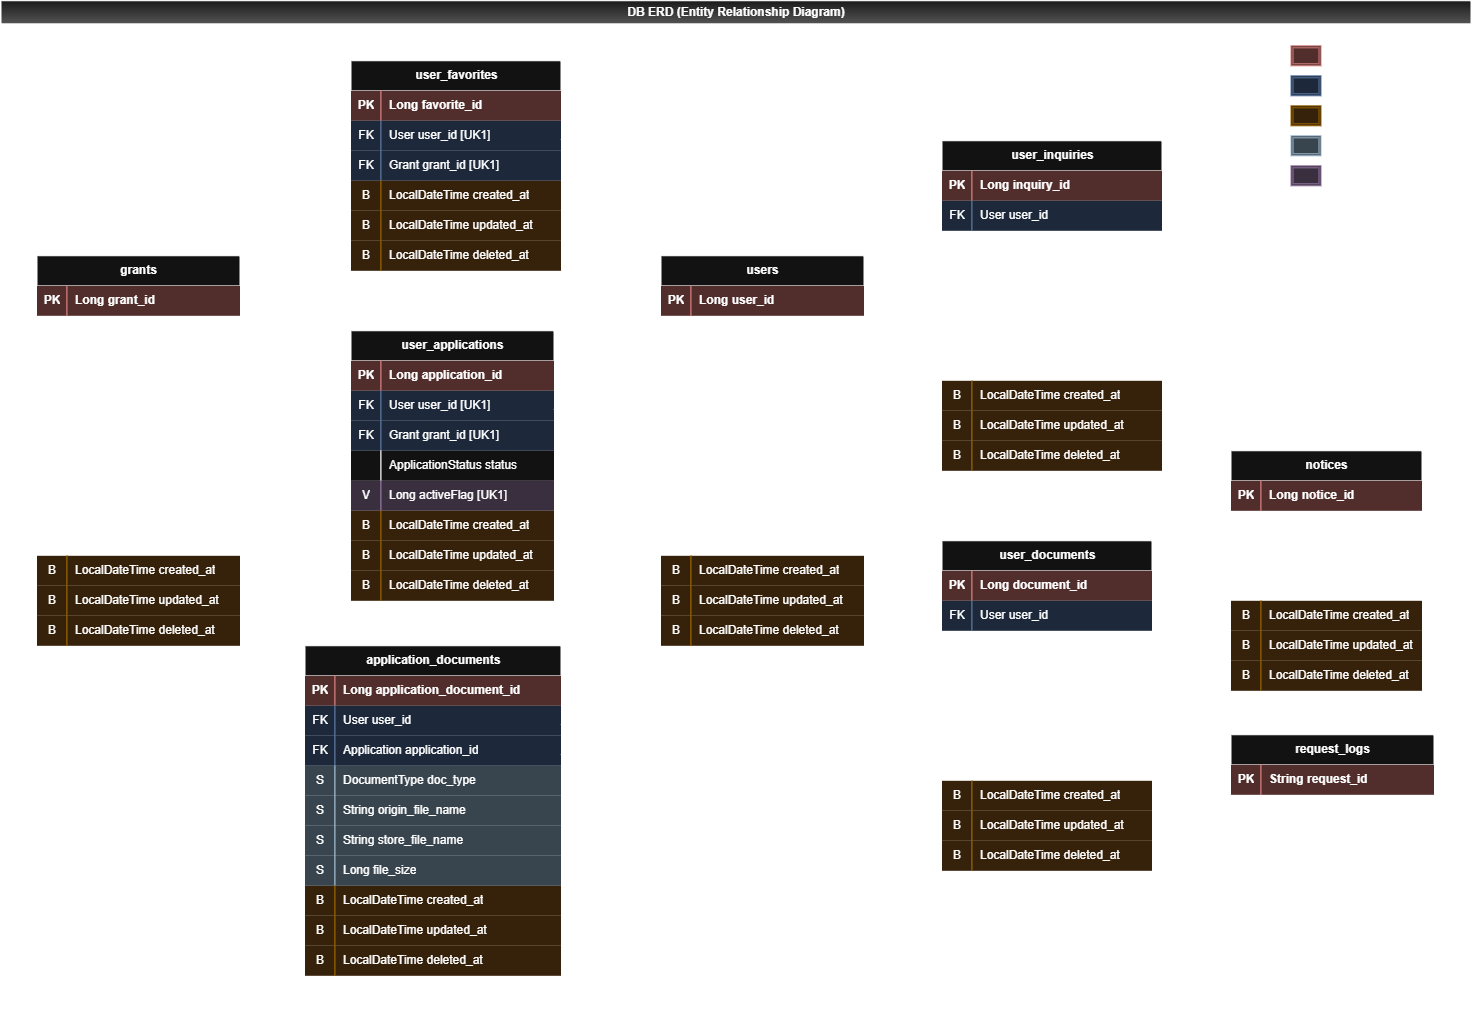
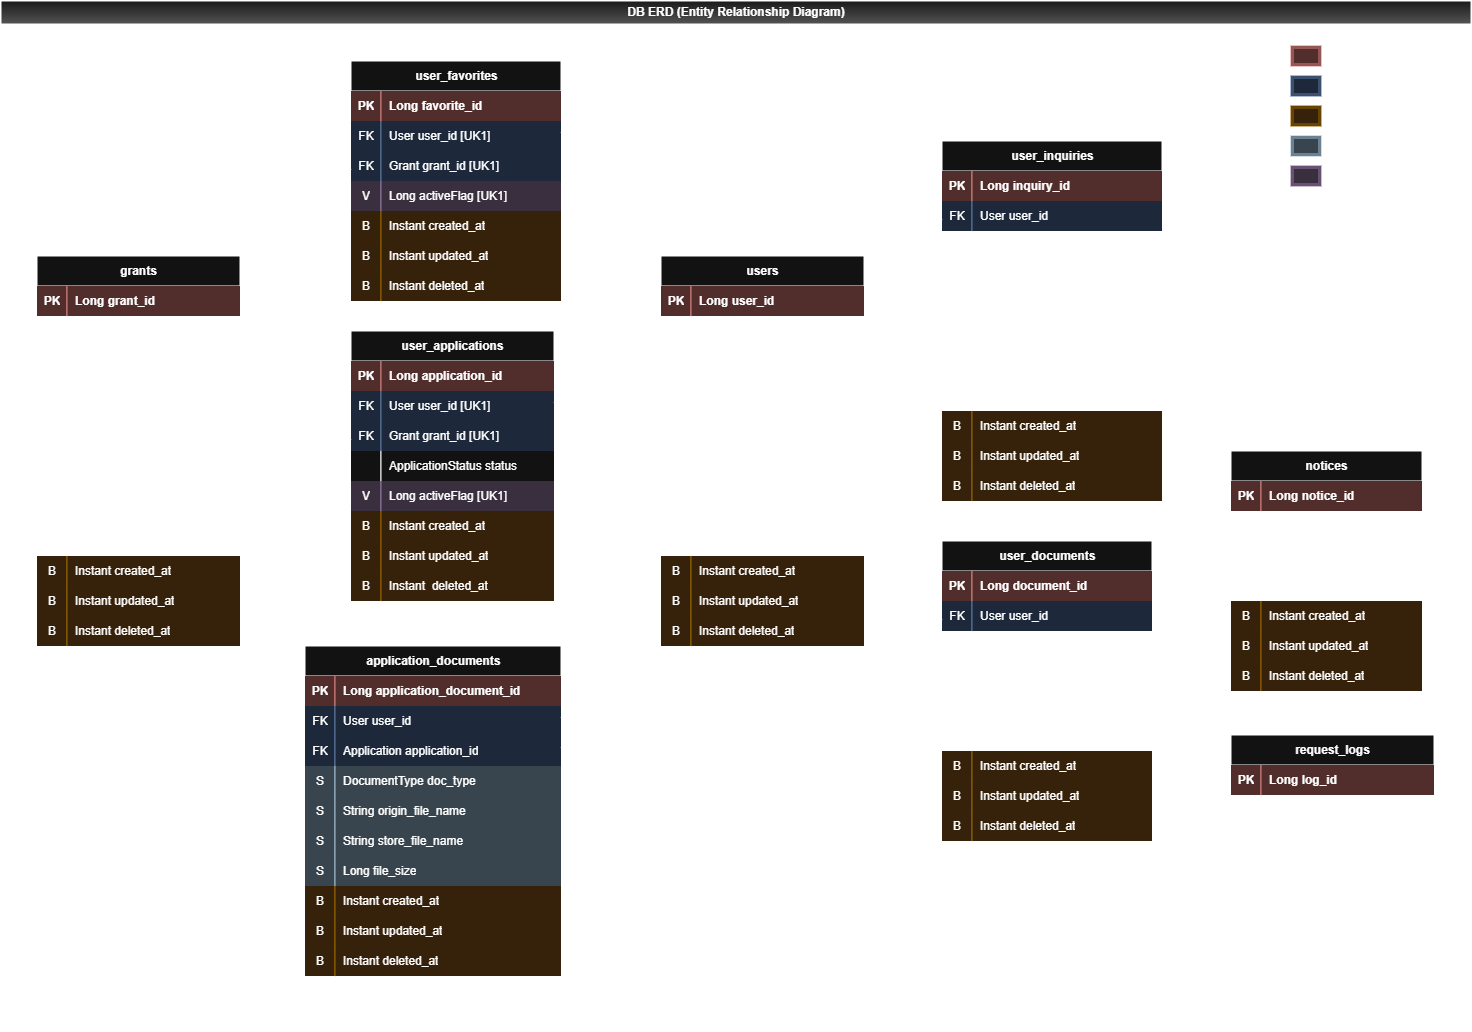
README 최신화

diff --git a/README.md b/README.md
@@ -4,9 +4,18 @@
 
 
 ## 프로젝트 개요
-본 프로젝트는 **정부지원금 서비스**를 모티브로 제작되었으며 
-실제 웹 모의해킹 시나리오 수행 및 **취약점 진단 보고서** 작성을 목적으로 개발된 애플리케이션입니다.
 
+본 프로젝트는 정부지원금 서비스의 실제 운영 환경을 모의한 웹 애플리케이션을 직접 설계·개발하고, 
+이를 대상으로 웹 모의해킹 및 취약점 진단 전 과정을 수행하는 것을 목적으로 제작한 보안 프로젝트입니다.
+
+단순한 기능 구현에 그치지 않고, 실제 웹 서비스에서 발생할 수 있는 인증·인가, 세션 관리, 입력값 검증, 파일 처리, 
+데이터 보호 등 다양한 보안 이슈를 고려하여 애플리케이션을 구성하였습니다.
+
+또한 취약한 환경을 별도로 구성하여 시나리오 기반으로 취약점을 재현하고 공격 과정을 수행한 뒤, 취약점의 원인·영향도·대응 방안을 분석하고 
+이후 실제 서비스에 적용할 수 있는 시큐어 코딩 및 보안 통제를 적용하였습니다.
+
+최종적으로 각 취약점에 대한 취약점 분석, 위험도 평가, 침투테스트 과정(공격 자동화 스크립트 포함), 대응방안, 비지니스 영향, 이행점검 및 조치가이드를 
+취약점 진단 보고서로 작성하여 웹 애플리케이션 개발부터 공격·분석·개선까지의 전 과정을 하나의 프로젝트로 구성하였습니다.
 
 
 ## 기술 스택
@@ -24,13 +33,29 @@
 
 ## 시스템 구조 및 설계
 
-### System Architecture
+### 시스템 아키텍쳐
 ![SystemArchitecture](./images/SystemArchitecture.png)
 
-### Database ERD
+### 데이터베이스 ERD
 ![DatabaseERD](./images/DatabaseERD.png)
 
-### Features
+### 주요 보안 구현 사항
+
+* CorsFilter를 적용하여 허용된 출처에서 발생한 요청에 대해서만 웹 브라우저가 응답을 읽을 수 있도록 CORS 정책 적용
+* RequestTracingFilter를 적용하여 X-REQUEST-ID 중복 검증, X-REQUEST-TIME 시간차 검증 및 요청 추적·로그 기록
+* SessionCheckFilter를 적용하여 세션 유효성 및 요청에 대한 접근 권한 검증
+* DoubleSubmitCookieFilter를 적용하여 XSRF-TOKEN 헤더와 쿠키값의 일치 여부를 검증함으로써 CSRF 방지
+* 로그인 시 세션 재생성을 적용하여 세션 고정(Session Fixation) 방지
+* 세션 유효시간을 15분으로 설정하고 필요 시 연장할 수 있도록 하여 장시간 세션 유지에 따른 세션 탈취 위험 완화
+* 타이밍 공격을 방지하기 위한 안전한 검증 함수 적용
+* 안전한 일방향 해시 알고리즘을 이용한 패스워드 보호 및 안전한 양방향 암호화 알고리즘을 이용한 계좌정보 암호화
+* 정보노출을 방지하기 위한 요청·응답 표준화, 공통 예외 처리 핸들러 및 에러코드 정의
+* 침해사고 발생 시 피해 추적 및 감사 가능성을 고려한 데이터베이스 Soft Delete 적용
+* 시나리오 기반 취약점에 대한 시큐어 코딩 및 보안 통제 적용
+  (취약점별 상세 대응 내용은 취약점 진단 보고서에서 확인)
+
+
+### 세부기능
 
 #### Public (비회원/공통)
 
@@ -50,7 +75,9 @@
 
     - 로그인: 사용자 자격 증명을 검증하고 시스템 접근 권한(세션) 부여
 
-    - 세션 인증 확인: 현재 클라이언트의 세션 유효성 및 로그인 상태 검증
+- Session (세션)
+
+  - 세션 인증 확인: 현재 클라이언트의 세션 유효성 및 로그인 상태 검증
 
 #### User (일반 사용자)
 
@@ -65,20 +92,22 @@
 
 - Document (서류)
 
-    - 서류 등록: 지원금 신청에 필요한 필수/추가 증빙 서류 파일 업로드
+    - 서류 등록: 서류함에 지원금 신청시 필요한 증빙 서류 파일 업로드
 
     - 서류 조회: 본인이 업로드한 제출 서류 목록 확인
 
     - 서류 삭제: 잘못 업로드했거나 불필요한 서류 파일 삭제
 
-    - 서류 다운로드: 제출했던 증빙 서류 파일 재다운로드
+    - 서류 다운로드: 보관중인 증빙 서류 파일 다운로드
+
+    - 신청서 첨부 서류 다운로드 : 신청서에 첨부한 서류 파일 재 다운로드
 
 
 - Favorite (즐겨찾기)
 
     - 지원금 즐겨찾기 등록: 관심 있는 지원금 제도를 개인 즐겨찾기 목록에 추가
 
-    - 즐겨찾기 조회: 등록한 관심 지원금 목록 모아보기 및 모집 상태 확인
+    - 즐겨찾기 조회: 관심 지원금 목록 모아보기 및 모집 상태 확인
 
     - 즐겨찾기 삭제: 즐겨찾기 목록에서 특정 지원금 항목 제거
 
@@ -98,11 +127,21 @@
 
     - 로그아웃: 현재 인증된 사용자 세션을 만료시키고 보안 접속 종료
 
+    - 계정 조회: 로그인한 계정 정보 조회
+
+    - 계좌 수정: 계정 정보로 등록된 계좌 정보 수정
+
+- Session (세션)
+
+    - 세션연장: 세션만료 시간 연장(최대 15분)
+
 #### Admin (관리자)
 
 - Application (신청 관리)
 
-    - 지원금 신청 상태 관리: 제출된 사용자 신청건에 대한 심사 진행 및 상태 변경
+    - 지원금 신청 내역 전체 조회: 모든 지원금 제도 신청자의 신청 내역을 조회
+
+    - 지원금 신청 상태 변경: 제출된 사용자 신청건에 대한 심사 진행 및 상태 변경
 
 
 - Grant (지원금 제도 관리)
@@ -118,6 +157,8 @@
 
 - Inquiry (문의 관리)
 
+    - 문의 전체 조회: 모든 사용자의 서비스 이용 관련 문의 조회
+  
     - 문의 답변 등록: 사용자가 등록한 문의에 대한 공식 답변 작성 및 처리 완료 상태 변경
 
 
@@ -134,7 +175,13 @@
 
     - 사용자 계정 조회: 전체 회원 목록 검색 및 세부 정보 조회
 
-    - 사용자 계정 삭제: 부적절한 이용자 등에 대한 관리자 권한의 계정 강제 정지 및 탈퇴 처리
+    - 사용자 계정 삭제: 부적절한 이용자 등에 대한 관리자 권한의 계정 강제 삭제
+
+    - 계정 권한 변경: 관리자 권한으로 특정 사용자 계정의 권한을 승격 또는 강등
+
+- Monitoring (모니터링)
+    
+    - 로그 조회 : 로그 조회 및 검색시 결과 반환
 ---
 
 ## 시나리오
